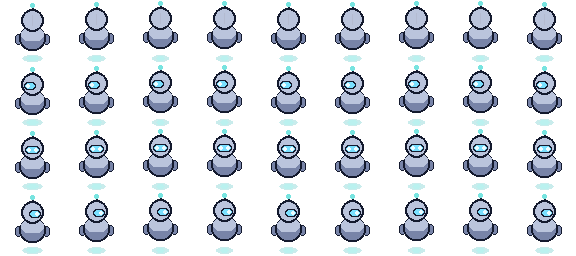
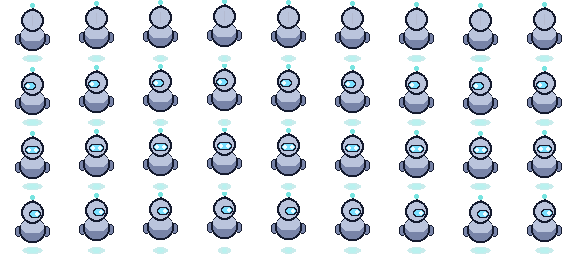
Close-up: match variant antennae, release capture on finish; livelier float
- Antennae colour in the zoom now matches the critter: per-variant closeupBg
  backdrops (antennae hue-rotated to each glow), wired via variant.closeupBg.
  Was always pink because a single fixed backdrop was used.
- Stuck-after-polish safeguard: release the pointer capture the instant the
  scrub finishes (stage still visible) instead of 950ms later when the overlay
  hides — a finger still down when a captured element is hidden is the classic
  iOS freeze. Also force-re-enable Phaser pointer/keyboard input on close.
  (Couldn't reproduce the freeze in headless WebKit incl. touch — movement
  works after finish/✖ in tests — so this is a targeted hardening.)
- Keeper float-bob made more visible (amplitude ~4px across the walk frames).

Verified on Safari/WebKit (iPhone 13): aqua critter shows aqua antennae,
movement works after polish, 0 page errors. Cache version v23.

Claude-Session: https://claude.ai/code/session_01UPfgyd7xwJyALJ5sAph2mS

diff --git a/game.config.js b/game.config.js
@@ -26,7 +26,7 @@ window.GAME = {
     tagline: "Look after the little glowing critters!",
     saveKey: "nebula-nursery",
     audience: { minAge: 6, notes: "all-ages, gentle, cute, no violence" },
-    assetVersion: "v22",
+    assetVersion: "v23",
     theme: { home: "#171036", play: "#0e1430" },
     showCoins: false,                 // minimal demo: no economy
     namePrompt: { label: "Name your nursery:", placeholder: "Starlight Bay" },
@@ -64,6 +64,11 @@ window.GAME = {
       pod_rest: "assets/img/pod_rest.png",
       critter_closeup: "assets/img/critter_closeup.png", dust: "assets/img/dust.png", cloth: "assets/img/cloth.png",
       want_dust: "assets/img/want_dust.png",
+      // per-variant close-up backdrops (antennae recoloured to match each critter's glow)
+      critter_closeup_amber: "assets/img/critter_closeup_amber.png",
+      critter_closeup_aqua: "assets/img/critter_closeup_aqua.png",
+      critter_closeup_lime: "assets/img/critter_closeup_lime.png",
+      critter_closeup_violet: "assets/img/critter_closeup_violet.png",
     },
     sheets: {
       keeper: { path: "assets/sheet/keeper.png", frameWidth: 64, frameHeight: 64 },
@@ -123,12 +128,13 @@ window.GAME = {
     // Variants in SHEET mode: only the ANTENNA TIPS are recoloured (body stays the
     // same) — a tasteful detail rather than tinting the whole creature. "rose" is the
     // base sheet; the others are antenna-recoloured copies. New critters get a random one.
+    // sheet = recoloured antenna spritesheet (in-world); closeupBg = matching zoom backdrop
     variants: [
       { id: "rose", name: "Rose", color: "#ff5db1" },
-      { id: "amber", name: "Amber", color: "#ffc24a", sheet: "critter_amber" },
-      { id: "aqua", name: "Aqua", color: "#3fe0e8", sheet: "critter_aqua" },
-      { id: "lime", name: "Lime", color: "#8df06b", sheet: "critter_lime" },
-      { id: "violet", name: "Violet", color: "#b58bff", sheet: "critter_violet" },
+      { id: "amber", name: "Amber", color: "#ffc24a", sheet: "critter_amber", closeupBg: "critter_closeup_amber" },
+      { id: "aqua", name: "Aqua", color: "#3fe0e8", sheet: "critter_aqua", closeupBg: "critter_closeup_aqua" },
+      { id: "lime", name: "Lime", color: "#8df06b", sheet: "critter_lime", closeupBg: "critter_closeup_lime" },
+      { id: "violet", name: "Violet", color: "#b58bff", sheet: "critter_violet", closeupBg: "critter_closeup_violet" },
     ],
     variantLabel: "Antennae",
     customize: { rename: true, variant: true },

diff --git a/index.html b/index.html
@@ -11,10 +11,10 @@
   <meta name="apple-mobile-web-app-status-bar-style" content="black-translucent" />
   <meta name="apple-mobile-web-app-title" content="Nebula" />
   <title>Nebula Nursery</title>
-  <link rel="manifest" href="manifest.webmanifest?v=v22" />
-  <link rel="icon" type="image/png" href="assets/favicon.png?v=v22" />
-  <link rel="apple-touch-icon" href="assets/apple-touch-icon.png?v=v22" />
-  <link rel="stylesheet" href="style.css?v=v22" />
+  <link rel="manifest" href="manifest.webmanifest?v=v23" />
+  <link rel="icon" type="image/png" href="assets/favicon.png?v=v23" />
+  <link rel="apple-touch-icon" href="assets/apple-touch-icon.png?v=v23" />
+  <link rel="stylesheet" href="style.css?v=v23" />
 </head>
 <body>
   <!-- Home -->
@@ -88,8 +88,8 @@
   <!-- Night veil ("rest" transition), fullscreen -->
   <div id="night-veil"></div>
 
-  <script src="vendor/phaser.min.js?v=v22"></script>
-  <script src="game.config.js?v=v22"></script>
-  <script src="engine.js?v=v22"></script>
+  <script src="vendor/phaser.min.js?v=v23"></script>
+  <script src="game.config.js?v=v23"></script>
+  <script src="engine.js?v=v23"></script>
 </body>
 </html>

diff --git a/engine.js b/engine.js
@@ -1725,6 +1725,11 @@ function cuEmoji(left, top, glyphs, burst) {
 
 function cuFinish() {
   const { c, a } = cuState;
+  // Release the pointer capture NOW (stage still visible) rather than 950ms later when the
+  // overlay hides — on iOS a finger still down when a captured element is removed/hidden
+  // leaves the capture stuck and freezes later taps. Releasing early avoids that.
+  if (cuState) cuState.pressed = false;
+  cuReleaseCapture();
   const parts = (a.closeup && a.closeup.finishParticles) || ["⭐", "💖", "✨", "🌟"];
   for (let i = 0; i < 16; i++) cuEmoji((10 + Math.random() * 80) + "%", (18 + Math.random() * 55) + "%", [parts[i % parts.length]], true);
   setTimeout(() => { closeCloseup(); cuApply(c, a); }, 950);
@@ -1760,7 +1765,11 @@ function closeCloseup() {
   moveTarget = null; pendingInteract = null; followCreature = null;
   running = false; jumpRunning = false;
   themeColor((META.theme && META.theme.play) || TINT_PLAY);
-  if (sc && sc.input && sc.input.keyboard) { sc.input.keyboard.enabled = true; sc.input.keyboard.resetKeys(); }
+  if (sc && sc.input) {                                  // re-assert pointer + keyboard input
+    sc.input.enabled = true;
+    if (sc.input.manager) sc.input.manager.enabled = true;
+    if (sc.input.keyboard) { sc.input.keyboard.enabled = true; sc.input.keyboard.resetKeys(); }
+  }
   if (sc && player) sc.cameras.main.startFollow(player, true, 0.5, 0.5);
 }
 